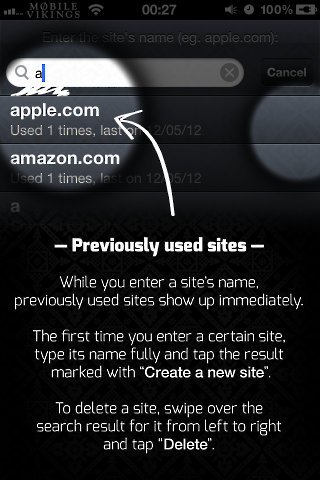
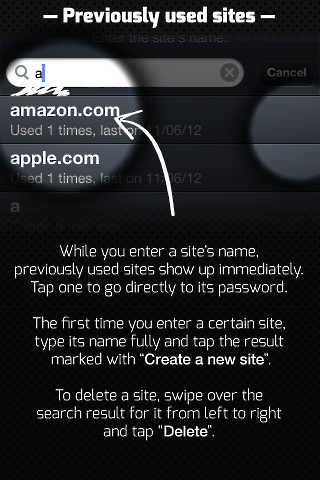
Updated guide + settings bundle + fixes.
[UPDATED]   Guide updated with UI changes.
[FIXED]     Don't animate pushing the unlock VC when appearance of main
            VC is not animated (eg. application startup).
[FIXED]     rememberKey -> rememberLogin in settings bundle.
[REMOVED]   saveKey from settings bundle.
[UPDATED]   Removed lock from the Default image; show a dummy avatar
            instead.
[FIXED]     Don't forget key when signing out.

diff --git a/MasterPassword/iOS/MPMainViewController.m b/MasterPassword/iOS/MPMainViewController.m
@@ -11,6 +11,7 @@
 #import "MPAppDelegate_Key.h"
 #import "MPAppDelegate_Store.h"
 #import "ATConnect.h"
+#import "MPUnlockViewController.h"
 
 
 @interface MPMainViewController (Private)
@@ -70,7 +71,8 @@
     [super viewWillAppear:animated];
 
     if (![MPAppDelegate get].activeUser)
-        [self.navigationController performSegueWithIdentifier:@"MP_Unlock" sender:self];
+        [self.navigationController presentViewController:[self.storyboard instantiateViewControllerWithIdentifier:@"MPUnlockViewController"]
+                                   animated:animated completion:nil];
     if (self.activeElement.user != [MPAppDelegate get].activeUser)
         self.activeElement                      = nil;
     self.searchDisplayController.searchBar.text = nil;
@@ -417,7 +419,6 @@
                          case 5:
 #endif
                          {
-                             [[MPAppDelegate get] forgetSavedKeyFor:[MPAppDelegate get].activeUser];
                              [[MPAppDelegate get] signOut];
                              break;
                          }

diff --git a/MasterPassword/iOS/MPTypeViewController.m b/MasterPassword/iOS/MPTypeViewController.m
@@ -61,16 +61,7 @@
     UITableViewCell *cell = [super tableView:tableView cellForRowAtIndexPath:indexPath];
 
     if ([delegate respondsToSelector:@selector(selectedType)])
-        if ([delegate selectedType] == [self typeAtIndexPath:indexPath])
-            [cell enumerateSubviews:^(UIView *subview, BOOL *stop, BOOL *recurse) {
-                if ([subview isKindOfClass:[UIImageView class]]) {
-                    UIImageView *imageView = ((UIImageView *)subview);
-                    if (!imageView.highlightedImage)
-                        imageView.highlightedImage = [imageView.image highlightedImage];
-                    imageView.highlighted          = YES;
-                    *stop = YES;
-                }
-            } recurse:NO];
+        cell.selected = ([delegate selectedType] == [self typeAtIndexPath:indexPath]);
 
     return cell;
 }

diff --git a/MasterPassword/iOS/MPUnlockViewController.m b/MasterPassword/iOS/MPUnlockViewController.m
@@ -114,7 +114,6 @@
 
     self.avatarToUser = [NSMutableDictionary dictionaryWithCapacity:3];
 
-    self.passwordField.text           = nil;
     self.avatarsView.decelerationRate = UIScrollViewDecelerationRateFast;
     self.avatarsView.clipsToBounds    = NO;
     self.nameLabel.layer.cornerRadius = 5;
@@ -349,6 +348,7 @@
         self.deleteTip.alpha           = 0;
     } else
         if (!self.selectedUser && self.passwordView.alpha == 1) {
+            self.passwordField.text        = nil;
             self.passwordView.alpha        = 0;
             self.avatarsView.center        = CGPointMake(160, 310);
             self.avatarsView.scrollEnabled = YES;

diff --git a/MasterPassword/iOS/MPGuideViewController.m b/MasterPassword/iOS/MPGuideViewController.m
@@ -24,6 +24,13 @@
     [self.scrollView autoSizeContent];
 }
 
+- (void)viewDidAppear:(BOOL)animated {
+    
+    [[UIApplication sharedApplication] setStatusBarHidden:YES withAnimation:animated? UIStatusBarAnimationSlide: UIStatusBarAnimationNone];
+    
+    [super viewDidAppear:animated];
+}
+
 - (void)viewWillDisappear:(BOOL)animated {
 
     [super viewWillDisappear:animated];
